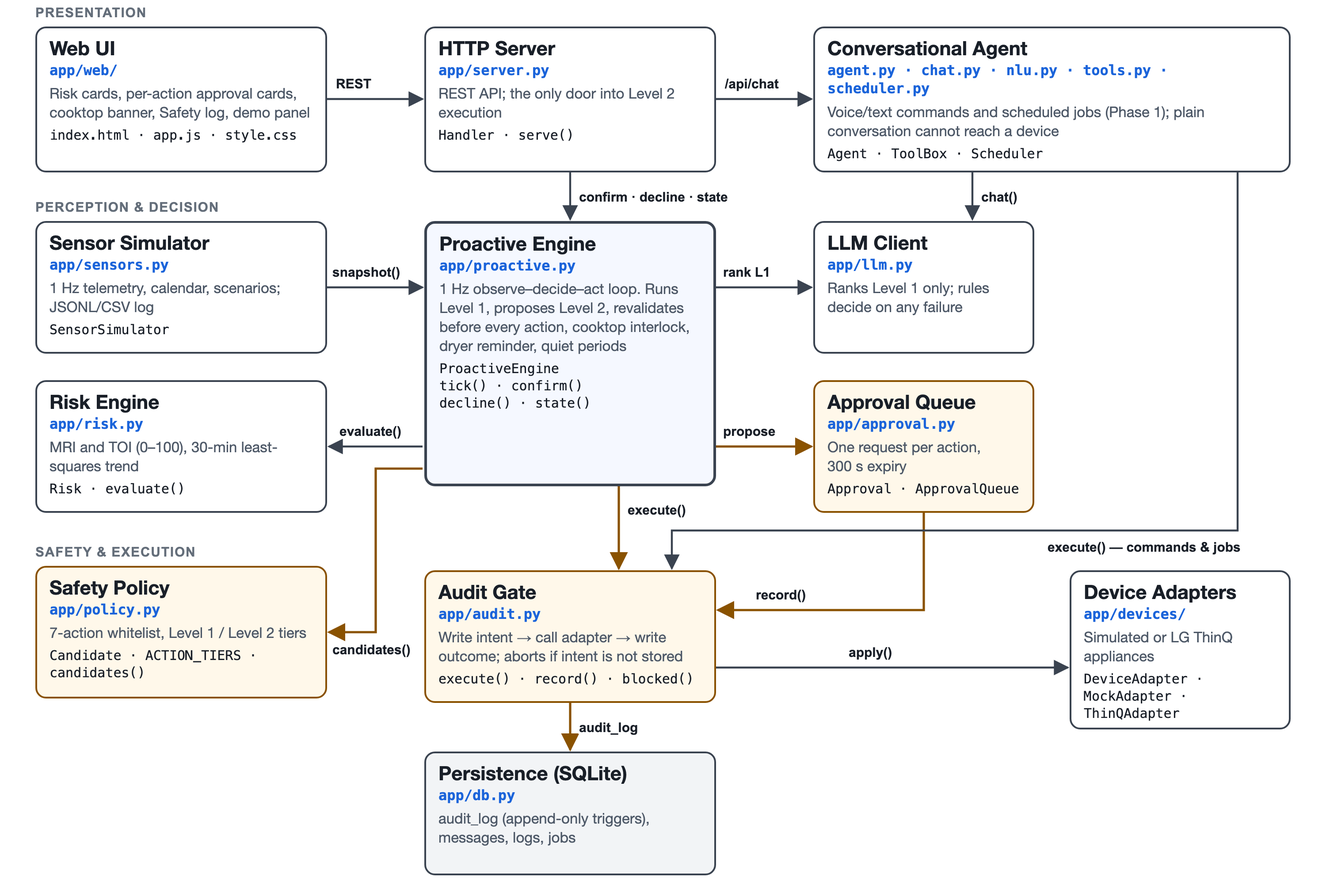
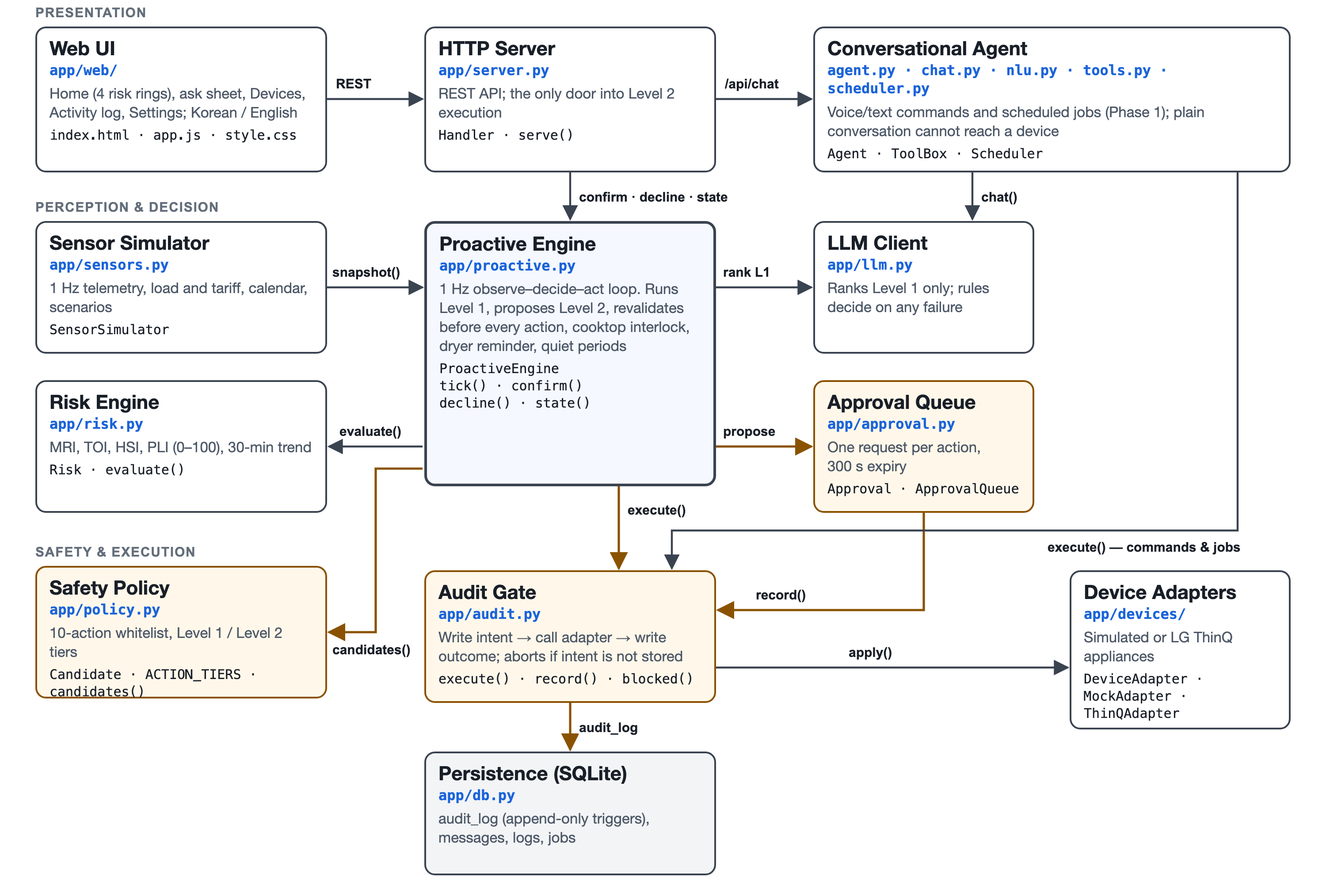
docs: paper updated to v3 UI and the four risk indices
- Intro, FR-2, FR-3: MRI, TOI, HSI (Steadman apparent temperature) and
  PLI (load vs time-of-use budget); whitelist 7 -> 10 actions; formulas
  and the three new actions in the table; Steadman (1984) reference
- Section V: sensor load/tariff/history, risk functions, ten-action
  policy, 293 tests, v3 four-tab interface with Korean / English
- Architecture figure re-rendered with the new component descriptions
- Section VI rewritten for the v3 UI with fresh screenshots from the
  running app: Use Cases 1-10, including hot night (HSI), peak rate
  (PLI) and the Korean interface; old v2 screenshots removed
- VII (not required) and a VIII Discussion draft for the team to finish
- Subtitle now covers deliverables B-D

diff --git a/docs/figures/src/architecture.html b/docs/figures/src/architecture.html
@@ -31,7 +31,7 @@
 
 <div id="ui" class="box" style="left:40px;top:30px;width:330px;height:165px">
   <h3>Web UI</h3><div class="f">app/web/</div>
-  <p>Risk cards, per-action approval cards, cooktop banner, Safety log, demo panel</p>
+  <p>Home (4 risk rings), ask sheet, Devices, Activity log, Settings; Korean / English</p>
   <div class="c">index.html · app.js · style.css</div>
 </div>
 <div id="srv" class="box" style="left:480px;top:30px;width:330px;height:165px">
@@ -47,17 +47,17 @@
 
 <div id="sens" class="box" style="left:40px;top:250px;width:330px;height:150px">
   <h3>Sensor Simulator</h3><div class="f">app/sensors.py</div>
-  <p>1 Hz telemetry, calendar, scenarios; JSONL/CSV log</p>
+  <p>1 Hz telemetry, load and tariff, calendar, scenarios</p>
   <div class="c">SensorSimulator</div>
 </div>
 <div id="risk" class="box" style="left:40px;top:430px;width:330px;height:150px">
   <h3>Risk Engine</h3><div class="f">app/risk.py</div>
-  <p>MRI and TOI (0–100), 30-min least-squares trend</p>
+  <p>MRI, TOI, HSI, PLI (0–100), 30-min trend</p>
   <div class="c">Risk · evaluate()</div>
 </div>
 <div id="pol" class="box safety" style="left:40px;top:640px;width:330px;height:150px">
   <h3>Safety Policy</h3><div class="f">app/policy.py</div>
-  <p>7-action whitelist, Level 1 / Level 2 tiers</p>
+  <p>10-action whitelist, Level 1 / Level 2 tiers</p>
   <div class="c">Candidate · ACTION_TIERS · candidates()</div>
 </div>
 

diff --git a/docs/project_specifications_final.tex b/docs/project_specifications_final.tex
@@ -12,7 +12,7 @@
 \begin{document}
 
 \title{Proactive Comfort Agent: Full Self-Driving Home Orchestration\\
-\large Technical Specification Document (Phase 2 -- Deliverable B)}
+\large Specification, Design and Implementation (Phase 2 -- Deliverables B--D)}
 
 \author{
 \IEEEauthorblockN{Ha Yun Kim}
@@ -59,15 +59,15 @@ Smart home appliances are ubiquitous today, but having more features does not au
 Current smart home apps like LG ThinQ work in reactive silos \cite{lgspec2026}. They wait for manual button taps or send passive alerts (such as ``Cycle Finished''), leaving household members to diagnose environmental or energy issues themselves \cite{pradhan2020}. More importantly, appliances do not share thermodynamic or power-load awareness across rooms. When someone bakes in a hot oven while running a dryer, kitchen temperatures surge, forcing the refrigerator compressor and air conditioner to run at maximum duty cycles and draw peak electricity without coordinated pre-cooling, ventilation, or load interruption \cite{ashrae2023}. FSD-Home solves this by combining continuous sensor tracking with automated cross-appliance environmental and energy orchestration.
 
 \subsection{Related Software}
-Current commercial tools offer strong single-device features: LG AI DD\textsuperscript{TM} senses fabric softness via motor torque; LG ezDispense\textsuperscript{TM} automates detergent dosing; and LG ThinQ ON / ThinQ Claw provides conversational voice hubs \cite{lgwhitepaper2024, lgspec2026}. Samsung's Bespoke AI sends lifestyle pattern notifications \cite{samsung2026a, samsung2026b}. However, none of them coordinate thermal load, moisture prevention, and electricity demand across multiple devices \cite{yuan2024}. FSD-Home introduces three main contributions: (1) explicit predictive risk scores for indoor mold hygiene (MRI) and kitchen thermal/power overload (TOI), (2) a Tesla-inspired Level 1 / Level 2 autonomy model with per-action confirmation, energy-saving pre-cooling/load interruption, and safe standby fallback, and (3) an inclusive, touch-first overlay designed around WCAG 2.2 contrast and touch targets \cite{wcag2023}.
+Current commercial tools offer strong single-device features: LG AI DD\textsuperscript{TM} senses fabric softness via motor torque; LG ezDispense\textsuperscript{TM} automates detergent dosing; and LG ThinQ ON / ThinQ Claw provides conversational voice hubs \cite{lgwhitepaper2024, lgspec2026}. Samsung's Bespoke AI sends lifestyle pattern notifications \cite{samsung2026a, samsung2026b}. However, none of them coordinate thermal load, moisture prevention, and electricity demand across multiple devices \cite{yuan2024}. FSD-Home introduces three main contributions: (1) four explicit, explainable risk scores --- indoor mold hygiene (MRI), kitchen thermal overload (TOI), heat stress where residents live (HSI) and whole-house power load against the time-of-use price (PLI) --- (2) a Tesla-inspired Level 1 / Level 2 autonomy model with per-action confirmation, energy-saving pre-cooling/load interruption, and safe standby fallback, and (3) an inclusive, touch-first overlay designed around WCAG 2.2 contrast and touch targets \cite{wcag2023}.
 
 \section{Requirements Overview}
 
 \subsection{Functional Requirements (FR)}
 \begin{itemize}
     \item \textbf{FR-1 (Real-Time Environmental \& Power Telemetry Perception):} Continuously sample indoor temperature, humidity, drum moisture decay, door contact, household presence (\texttt{user\_home}), compressor duty cycle, and wattage at 1~Hz.
-    \item \textbf{FR-2 (Predictive Environmental Hazard \& Energy Modeling):} Deterministically compute the Mold Risk Index (MRI) and Thermal Overload Index (TOI) to trigger interventions at a threshold of $50.0$.
-    \item \textbf{FR-3 (Level 1 \& Level 2 Action Framework):} Enforce a strict 7-action whitelist separating automatic eco/comfort adjustments (Level 1) from per-action approval-gated interventions (Level 2).
+    \item \textbf{FR-2 (Predictive Environmental Hazard \& Energy Modeling):} Deterministically compute the Mold Risk Index (MRI), Thermal Overload Index (TOI), Heat Stress Index (HSI) and Power Load Index (PLI) to trigger interventions at a threshold of $50.0$.
+    \item \textbf{FR-3 (Level 1 \& Level 2 Action Framework):} Enforce a strict 10-action whitelist separating automatic eco/comfort adjustments (Level 1) from per-action approval-gated interventions (Level 2).
     \item \textbf{FR-4 (Inclusive UI/UX \& Per-Action Consent Overlay):} Provide WCAG 2.2 compliant touch controls, separate approval prompts per Level 2 action, supplementary TTS voice prompts, manual quiet-period status review, and truthful adapter-grounded result messages.
     \item \textbf{FR-5 (Fail-Safe Default \& Pre-Execution Safety Policy):} Enforce a 300-second approval expiration defaulting to safe standby, pre-execution state/risk revalidation, cooktop presence and auto-off safeguards, and dryer restart reminders.
     \item \textbf{FR-6 (Structured Append-Only Audit Trail):} Maintain an immutable SQLite \texttt{audit\_log} linking risk triggers, per-action approvals (\texttt{approval\_id}), and actual device execution outcomes.
@@ -95,9 +95,9 @@ The FSD-Home backend system is developed using \textbf{Python 3.10+} (targeting 
 \subsection{Software and Algorithms in Use}
 The system decouples real-time physical risk perception from LLM decision reasoning:
 \begin{itemize}
-    \item \textbf{Deterministic Risk Engines (\texttt{app/risk.py}):} Evaluates Mold Risk Index (MRI) and Thermal Overload Index (TOI) using closed-form thermodynamic models and 30-minute least-squares linear trend forecasting.
+    \item \textbf{Deterministic Risk Engines (\texttt{app/risk.py}):} Evaluates the MRI, TOI, HSI and PLI using closed-form models (including Steadman's apparent temperature for HSI) and 30-minute least-squares linear trend forecasting.
     \item \textbf{OpenAI-Compatible LLM Inference:} Integrates with Zhipu AI \texttt{glm-4-flash} (or local vLLM endpoints) for intent resolution and action candidate selection.
-    \item \textbf{Deterministic Safety Gating (\texttt{app/policy.py}):} Restricts LLM output via a strict 7-action candidate whitelist divided into Level 1 (Autonomous) and Level 2 (Approval Required) tiers. Unknown or malformed action names are rejected and logged rather than executed.
+    \item \textbf{Deterministic Safety Gating (\texttt{app/policy.py}):} Restricts LLM output via a strict 10-action candidate whitelist divided into Level 1 (Autonomous) and Level 2 (Approval Required) tiers. Unknown or malformed action names are rejected and logged rather than executed.
 \end{itemize}
 
 \subsection{Cost Estimation}
@@ -148,7 +148,7 @@ Fig.~\ref{fig:arch} illustrates the decoupled FSD-Home pipeline, separating 1~Hz
 Temp | Humidity | Door | Power (W) | Fridge Duty | user\_home\\
 \hspace*{3em}$\downarrow$ (1.2 ms deterministic check)\\
 {[Deterministic Risk \& Energy Engine: app/risk.py]}\\
-MRI >= 50.0 (Mold Risk) \quad | \quad TOI >= 50.0 (Thermal/Load)\\
+MRI | TOI | HSI | PLI \quad (each acts at >= 50.0)\\
 \hspace*{3em}$\downarrow$\\
 {[Safety Whitelist \& Policy Gate: app/policy.py]}\\
 Reject Unknown Actions | Assign Level 1 vs. Level 2\\
@@ -171,7 +171,7 @@ The \texttt{SensorSimulator} class in \texttt{app/sensors.py} generates 1~Hz tim
 \end{itemize}
 
 \subsection{FR-2: Predictive Risk \& Energy Modeling}
-The risk assessment module (\texttt{app/risk.py}) computes MRI and TOI deterministically within $1.2\text{ ms}$ per tick to protect indoor air quality and prevent wasteful peak-load energy spikes:
+The risk assessment module (\texttt{app/risk.py}) computes four indices deterministically within $1.2\text{ ms}$ per tick to protect indoor air quality and prevent wasteful peak-load energy spikes:
 \begin{equation}
 \text{MRI} = \text{clamp}\left[(H - 70.0) \times 3.2 + (S \times 6.0) + \max(0, T - 24.0) \times 1.5\right]
 \end{equation}
@@ -181,14 +181,16 @@ The risk assessment module (\texttt{app/risk.py}) computes MRI and TOI determini
 \begin{itemize}
     \item \textbf{Environmental \& Hygiene Optimization (MRI):} Prevents mold proliferation in sealed appliances early using low-wattage ventilation or dehumidification, avoiding harsh chemical cleaners and energy-heavy hot-water tub-clean cycles \cite{epa2022, who2009}.
     \item \textbf{Thermodynamic \& Energy Load Balancing (TOI):} Tracks concurrent heat wattage ($W$), kitchen temperature ($T_k$), and refrigerator compressor duty cycle ($D > 0.6$, signaling excess thermal strain) alongside scheduled cooking events ($C = 1$ when a cooking session starts within 30 minutes, otherwise $0$) \cite{ashrae2023}.
+    \item \textbf{Heat Stress Where Residents Live (HSI):} Older adults lose heat less efficiently and feel thirst later. HSI uses Steadman's apparent temperature $AT = T + 0.33e - 4.0$, where $e$ is the water-vapour pressure from temperature and relative humidity \cite{steadman1984}, in the living room or bedroom, and only while someone is at home: $\text{HSI} = \text{clamp}[6.0\,(AT - 29.0)]$, which reaches the threshold near $AT = 37\,^\circ$C.
+    \item \textbf{Power Load Against the Tariff (PLI):} The simulator sums the draw of every running appliance; an air conditioner draws less at a warmer setpoint (900~W at 22~$^\circ$C, 100~W less per degree, floor 400~W). With a time-of-use budget $B$ of 2.5~kW in the peak band and 7~kW otherwise, $\text{PLI} = \text{clamp}[60\,L/B]$, so the house acts above about 2.1~kW at peak and 5.8~kW off-peak.
     \item \textbf{Trigger \& Tier Separation:} When either index reaches or exceeds its configured threshold ($50.0$), an intervention event is dispatched. The risk threshold determines \emph{whether} an intervention is considered, whereas the predefined action tier determines \emph{whether} the action runs automatically or requires user approval.
 \end{itemize}
 
 \subsection{FR-3: Level 1 \& Level 2 Action Framework}
-The local rule engine (\texttt{app/policy.py}) strictly enforces a 7-action whitelist (Table~\ref{tab:whitelist}). Unknown actions are blocked and recorded in \texttt{audit\_log}.
+The local rule engine (\texttt{app/policy.py}) strictly enforces a 10-action whitelist (Table~\ref{tab:whitelist}). Unknown actions are blocked and recorded in \texttt{audit\_log}.
 \begin{itemize}
     \item \textbf{Level 1 (Autonomous Eco \& Comfort Actions):} Low-power, reversible actions execute immediately when selected---including proactive kitchen pre-cooling (\texttt{precool\_kitchen} prior to scheduled cooking so the AC compressor runs smoothly at high efficiency rather than surging against peak oven heat) and targeted ventilation/dehumidification.
-    \item \textbf{Level 2 (Per-Action Confirmation Required):} High-load or schedule-interrupting operations---such as stopping the dryer (\texttt{stop\_dryer}) during thermal/power overload so high-wattage heating elements do not overlap with kitchen cooking---generate individual pending confirmation states in \texttt{app/approval.py}. In the current proactive flow, Level 2 interventions are triggered by thermal/power overload risk (TOI), whereas mold risk (MRI) produces Level 1 actions.
+    \item \textbf{Level 2 (Per-Action Confirmation Required):} High-load or schedule-interrupting operations---such as stopping the dryer (\texttt{stop\_dryer}) during thermal/power overload so high-wattage heating elements do not overlap with kitchen cooking---generate individual pending confirmation states in \texttt{app/approval.py}. In the current proactive flow, Level 2 interventions are triggered by kitchen overload (TOI) and by power load at the peak rate (PLI, pausing a running wash); mold (MRI) and heat stress (HSI) produce Level 1 actions only.
 \end{itemize}
 
 \begin{table}[htbp]
@@ -206,6 +208,9 @@ L1 & \texttt{ventilate\_kitchen} & Range hood, fan high \\
 L1 & \texttt{precool\_kitchen} & Kitchen AC to $24^\circ\text{C}$ \\
 L2 & \texttt{stop\_dryer} & Dryer off; restart by hand \\
 L2 & \texttt{preheat\_cooktop} & Cooktop on early \\
+L1 & \texttt{cool\_room} & Room AC cool, 26~$^\circ$C (HSI) \\
+L1 & \texttt{eco\_ac} & Coldest AC +2~$^\circ$C (PLI) \\
+L2 & \texttt{pause\_washer} & Pause wash at peak (PLI) \\
 \bottomrule
 \end{tabular}
 \end{center}
@@ -302,7 +307,7 @@ Table~\ref{tab:dirs} lists the source tree. The core runtime uses only the Pytho
 \midrule
 \texttt{/} & \texttt{run.py}, \texttt{start.bat} & Entry point & Starts adapter, proactive engine, scheduler and web server; \texttt{--scenario}, \texttt{--port}, \texttt{--lan} \\
 \texttt{app/} & \texttt{sensors.py} & Sensor Simulator & \texttt{SensorSimulator}: 1~Hz rooms, appliances, calendar, scenarios \\
-\texttt{app/} & \texttt{risk.py} & Risk Engine & \texttt{Risk}, \texttt{mold\_risk()}, \texttt{thermal\_risk()}, \texttt{evaluate()} \\
+\texttt{app/} & \texttt{risk.py} & Risk Engine & \texttt{Risk}, MRI/TOI/HSI/PLI functions, \texttt{apparent\_temp()}, \texttt{evaluate()} \\
 \texttt{app/} & \texttt{policy.py} & Safety Policy & \texttt{Candidate}, \texttt{ACTION\_TIERS}, \texttt{candidates()}, \texttt{tier\_of()} \\
 \texttt{app/} & \texttt{proactive.py} & Proactive Engine & \texttt{ProactiveEngine}: loop, revalidation, cooktop interlock, dryer reminder \\
 \texttt{app/} & \texttt{approval.py} & Approval Queue & \texttt{Approval}, \texttt{ApprovalQueue}: per-action requests, 300~s expiry \\
@@ -312,8 +317,8 @@ Table~\ref{tab:dirs} lists the source tree. The core runtime uses only the Pytho
 \texttt{app/} & \texttt{agent.py}, \texttt{chat.py}, \texttt{nlu.py}, \texttt{tools.py}, \texttt{scheduler.py}, \texttt{agent\_loop.py}, \texttt{scenes.py}, \texttt{food.py} & Conversational Agent & Phase~1 voice/text commands, schedules and conversation; device writes go through the Audit Gate \\
 \texttt{app/} & \texttt{config.py}, \texttt{build.py} & Configuration & Defaults, \texttt{config.json}, build stamp \\
 \texttt{app/devices/} & \texttt{base.py}, \texttt{mock.py}, \texttt{thinq.py} & Device Adapters & \texttt{DeviceAdapter}, \texttt{MockAdapter} (11 simulated appliances), \texttt{ThinQAdapter} (dry-run by default) \\
-\texttt{app/web/} & \texttt{index.html}, \texttt{app.js}, \texttt{style.css}, \texttt{sw.js} & Web UI & Dashboard, approval cards, Safety log, demo controls; no build step \\
-\texttt{tests/} & \texttt{test\_phase2.py}, \texttt{test\_fr456.py}, \ldots & Unit tests & 276 tests; run on Windows and Linux in GitHub Actions \\
+\texttt{app/web/} & \texttt{index.html}, \texttt{app.js}, \texttt{style.css}, \texttt{sw.js} & Web UI & Four phone-screen tabs, ask sheet, talk sheet; Korean / English; no build step \\
+\texttt{tests/} & \texttt{test\_phase2.py}, \texttt{test\_fr456.py}, \ldots & Unit tests & 293 tests (incl.\ \texttt{test\_heat\_energy.py}); run on Windows and Linux in GitHub Actions \\
 \texttt{eval/} & \texttt{run.py}, \texttt{latency.py}, \texttt{dataset.jsonl} & Benchmarks & Intent-parser regression and latency measurement \\
 \texttt{docs/} & \texttt{*.tex}, \texttt{figures/} & Documentation & This paper, figures and screenshots \\
 \bottomrule
@@ -323,16 +328,17 @@ Table~\ref{tab:dirs} lists the source tree. The core runtime uses only the Pytho
 \subsection{Sensor Simulator (\texttt{app/sensors.py})}
 \textbf{Purpose.} Provide the telemetry FR-1 asks for without physical appliances (NFR-2).
 \textbf{Functionality.} \texttt{SensorSimulator} advances a small physical model once per second: an oven or cooktop heats the kitchen, the range hood and the air conditioner pull it back, the dryer warms the balcony, a sealed washer drum gains humidity while drum ventilation removes it, and the refrigerator's compressor duty cycle follows its external temperature probe. \texttt{note\_action()} feeds every executed command back into the model so that interventions have visible effects. \texttt{apply\_scenario()} loads the deterministic starting states used in the use cases (\texttt{idle}, \texttt{mold}, \texttt{oven}, \texttt{oven\_running}), and \texttt{record()} appends every snapshot to \texttt{data/sensors/readings.jsonl} and rewrites \texttt{latest.csv}. The day's cooking sessions are read from a local JSON calendar.
+It also reports the whole-house load (\texttt{total\_load\_w}) and the time-of-use band (\texttt{tariff}), which a scenario sets so that a demonstration behaves the same at any hour, and keeps a per-signal history for the 30-minute trend. Scenarios \texttt{heatwave} and \texttt{peak} exercise HSI and PLI.
 \textbf{Origin.} Written for this project; standard library only.
 
 \subsection{Risk Engine (\texttt{app/risk.py})}
 \textbf{Purpose.} Turn a snapshot into the two explainable indices of FR-2.
-\textbf{Functionality.} \texttt{mold\_risk()} and \texttt{thermal\_risk()} implement Eqs.~(1) and (2) and return a \texttt{Risk} object with the score, the headline metric, a 30-minute prediction from a least-squares slope (\texttt{slope\_per\_second()}), and a \texttt{drivers} dictionary that names every input that contributed points. A risk that does not apply (washer open, no heat source and no cooking scheduled) returns \texttt{None}. \texttt{evaluate()} returns all applicable risks, highest score first.
+\textbf{Functionality.} \texttt{mold\_risk()}, \texttt{thermal\_risk()}, \texttt{heat\_health\_risk()} and \texttt{energy\_risk()} implement the four indices of FR-2 and return a \texttt{Risk} object with the score, the headline metric, a 30-minute prediction from a least-squares slope (\texttt{slope\_per\_second()}), and a \texttt{drivers} dictionary that names every input that contributed points. A risk that does not apply (washer open, no heat source and no cooking scheduled) returns \texttt{None}. \texttt{evaluate()} returns all applicable risks, highest score first.
 \textbf{Why.} The indices are closed-form and untrained, so each point of a score can be explained to the user and checked in a unit test.
 
 \subsection{Safety Policy (\texttt{app/policy.py})}
 \textbf{Purpose.} Hold the single list of actions the house may take and the tier of each (FR-3).
-\textbf{Functionality.} \texttt{ACTION\_TIERS} is the seven-action whitelist of Table~\ref{tab:whitelist}. \texttt{candidates(risk, snapshot)} proposes only the actions that make sense in the current state (a range hood that is already on is not proposed), and \texttt{tier\_of()} returns Level~2 for any unknown name, so a mistake can only make an action more restricted. A unit test checks that the whitelist and the set of actions \texttt{candidates()} can produce are identical.
+\textbf{Functionality.} \texttt{ACTION\_TIERS} is the ten-action whitelist of Table~\ref{tab:whitelist}. \texttt{candidates(risk, snapshot)} proposes only the actions that make sense in the current state (a range hood that is already on is not proposed), and \texttt{tier\_of()} returns Level~2 for any unknown name, so a mistake can only make an action more restricted. A unit test checks that the whitelist and the set of actions \texttt{candidates()} can produce are identical.
 
 \subsection{Proactive Engine (\texttt{app/proactive.py})}
 \textbf{Purpose.} Run Algorithm~\ref{alg:control}.
@@ -353,7 +359,7 @@ Table~\ref{tab:dirs} lists the source tree. The core runtime uses only the Pytho
 
 \subsection{HTTP Server and Web UI (\texttt{app/server.py}, \texttt{app/web/})}
 \textbf{Purpose.} Give the household one accessible screen (FR-4).
-\textbf{Functionality.} \texttt{Handler} serves the static interface and a small REST API: \texttt{GET /api/proactive}, \texttt{/api/approvals}, \texttt{/api/audit}, \texttt{/api/snapshot}; \texttt{POST /api/approvals/<id>/confirm} and \texttt{/decline} (the only route into Level~2 execution), \texttt{/api/control}, \texttt{/api/chat} and \texttt{/api/scenario} for demonstrations. The interface is vanilla HTML, CSS and JavaScript with no build step. The home screen shows, from top to bottom, the status line, one card per pending approval with its own countdown, the two risk cards with the threshold marked at 50, the cooktop interlock banner, the heat-producing load, rooms, devices and the Safety log. Text and signal colours meet WCAG~2.2 AA contrast ($\geq 4.5{:}1$), controls show a visible keyboard focus, touch targets are at least 52~px, and the status line, banner and notifications are ARIA live regions \cite{wcag2023}.
+\textbf{Functionality.} \texttt{Handler} serves the static interface and a small REST API: \texttt{GET /api/proactive}, \texttt{/api/approvals}, \texttt{/api/audit}, \texttt{/api/snapshot}; \texttt{POST /api/approvals/<id>/confirm} and \texttt{/decline} (the only route into Level~2 execution), \texttt{/api/control}, \texttt{/api/chat} and \texttt{/api/scenario} for demonstrations. The interface is vanilla HTML, CSS and JavaScript with no build step, designed first in Figma (Section~VI shows it). It has four tabs that each fit one phone screen: \emph{Home} (a one-sentence status from a small house mascot, four risk rings with the threshold at 50, quick actions), \emph{Devices}, \emph{Activity} (the audit trail in plain language) and \emph{Settings}; talking is the button in the middle of the tab bar. Level~2 questions open a bottom sheet by themselves: the reason once, then one card per action with its own Yes~/~No and a shared countdown. A \emph{Korean | English} toggle switches the whole interface, speech recognition and read-aloud; Korean is the default. Text and signal colours meet WCAG~2.2 AA contrast ($\geq 4.5{:}1$), controls show a visible keyboard focus, touch targets are 44--56~px, and the status line, banner and notifications are ARIA live regions \cite{wcag2023}.
 
 \subsection{Conversational Agent (\texttt{app/agent.py} and related)}
 \textbf{Purpose.} Keep the Phase~1 voice and text assistant working on the same safety path.
@@ -361,102 +367,154 @@ Table~\ref{tab:dirs} lists the source tree. The core runtime uses only the Pytho
 
 % ======================================================================
 \section{Use Cases}
-All use cases below run on a laptop with \texttt{python run.py}; the screenshots were taken at phone width (500~px) with the language model disabled, so every decision shown was made by the rules. Each scenario can be loaded from the \emph{Demo controls} panel at the bottom of the home screen.
+All use cases run on a laptop with \texttt{python run.py}. Screenshots were taken from the running app at phone size with the language model disabled, so every decision shown was made by the rules. Each scenario can be loaded from \emph{Settings} $\rightarrow$ \emph{Demo}, or with \texttt{python run.py --scenario <name>}. The interface opens in Korean; the screenshots use the English setting except Use Case~9.
 
 \subsection{Use Case 1: Mold Risk Handled Automatically}
-\textbf{Satisfies:} FR-1, FR-2, FR-3 (Level~1), FR-4.
+\textbf{Satisfies:} FR-1, FR-2 (MRI), FR-3 (Level~1), FR-4.
 \begin{enumerate}
-    \item Open the home screen and choose \emph{Demo controls} $\rightarrow$ \emph{Wet washer}. The simulator loads a washer that finished two hours ago with the door shut and nobody at home.
-    \item Within one tick the Mold Risk Index reaches 82 (drum 90\% humid, sealed 2.0~h), above the threshold of 50.
-    \item The engine runs the Level~1 actions on its own: drum ventilation, the balcony dehumidifier and the living-room purifier. No question is asked.
-    \item The status line reads ``The house is handling washer mold risk'', the mold card shows \emph{Acting}, and the Safety log lists each action as \emph{About to act} followed by \emph{Done} (Fig.~\ref{fig:uc1}).
+    \item Choose \emph{Demo} $\rightarrow$ \emph{Wet washer}: a wash finished two hours ago with the door shut and nobody at home.
+    \item Within one tick MRI reaches about 81 (drum 90\% humid, sealed 2~h).
+    \item The house runs the Level~1 actions on its own --- drum ventilation, dehumidifier, air purifier --- and asks nothing.
+    \item Home says ``Airing the washer for you''; the washer ring shows \emph{On it}, and \emph{Just now} lists what was switched on (Fig.~\ref{fig:uc1}). The heat-stress tile reads ``Nobody home'' because HSI only counts while someone is at home.
 \end{enumerate}
 
 \begin{figure}[htbp]
 \centering
-\includegraphics[width=0.72\columnwidth]{figures/uc1-mold.png}
-\caption{Use Case 1: the mold index at 82 triggers Level~1 actions without asking.}
+\includegraphics[width=0.58\columnwidth]{figures/v3-uc1-mold.png}
+\caption{Use Case 1: MRI above 50 triggers Level~1 actions without asking.}
 \label{fig:uc1}
 \end{figure}
 
 \subsection{Use Case 2: Per-Action Approval for Kitchen Overload}
-\textbf{Satisfies:} FR-2, FR-3 (Level~2), FR-4.
+\textbf{Satisfies:} FR-2 (TOI), FR-3 (Level~2), FR-4.
 \begin{enumerate}
-    \item Choose \emph{Demo controls} $\rightarrow$ \emph{Dryer + dinner soon}. The dryer is running, the kitchen is at 31.5~$^\circ$C, the refrigerator compressor runs at 80\%, and a cooking session starts in 20 minutes.
-    \item The Thermal Overload Index reaches 100. The engine turns on the range hood and pre-cools the kitchen (Level~1) without asking.
-    \item Two Level~2 actions remain. The screen shows \emph{two separate cards}, ``Balcony Dryer $\cdot$ Stop the dryer'' and ``Kitchen Cooktop $\cdot$ Preheat the cooktop'', each with its own request identifier, Yes/No buttons and a five-minute countdown (Fig.~\ref{fig:uc2}). The first question is also read aloud.
+    \item Choose \emph{Demo} $\rightarrow$ \emph{Dryer + dinner soon}: the dryer runs, the kitchen is at 31.5~$^\circ$C, the refrigerator compressor runs at 80\%, and dinner starts in 20 minutes.
+    \item TOI reaches 100. The range hood and kitchen pre-cooling run on their own (Level~1).
+    \item A bottom sheet opens by itself (Fig.~\ref{fig:uc2}). It states the reason once as tags, then shows \emph{one card per Level~2 action} --- ``Stop the dryer now?'' and ``Preheat the cooktop?'' --- each with its own Yes~/~No, a shared countdown and ``No answer? Nothing changes.'' The questions are read aloud once, together.
 \end{enumerate}
 
 \begin{figure}[htbp]
 \centering
-\includegraphics[width=0.72\columnwidth]{figures/uc2-approvals.png}
-\caption{Use Case 2: one approval card per Level~2 action, each with its own countdown.}
+\includegraphics[width=0.58\columnwidth]{figures/v3-uc2-ask.png}
+\caption{Use Case 2: the reason once, then one short question per Level~2 action.}
 \label{fig:uc2}
 \end{figure}
 
 \subsection{Use Case 3: Confirming, Revalidation and the Cooktop Interlock}
 \textbf{Satisfies:} FR-4, FR-5, FR-6.
 \begin{enumerate}
-    \item In the state of Use Case~2, press \emph{Yes} on the dryer card. The engine revalidates the request (still valid, overload still active, dryer still on), records the intent, stops the dryer and records the outcome. The message reads ``You said yes, so I turned the dryer off''.
-    \item Removing the dryer's 1.8~kW clears the overload; the house sends one reminder that the dryer can be restarted by hand. It never restarts the dryer itself.
-    \item Press \emph{Yes} on the cooktop card. Because the overload has cleared, the cooktop is revalidated against the meal instead: someone is at home, cooking is still scheduled, and the cooktop is still off. The cooktop switches on.
-    \item A red banner shows that the cooktop is being watched: it is waiting for cooking to start, will switch off if no cooking begins within 5 minutes of the scheduled start, and will switch off after 30 minutes at most (Fig.~\ref{fig:uc3}). The cooktop's own load raises the thermal index again, which the risk card reports truthfully.
+    \item Press \emph{Yes} on the dryer card. The engine revalidates (still valid, overload still active, dryer still on), records the intent, stops the dryer and records the outcome.
+    \item Removing the dryer's 1.8~kW clears the overload; the house sends one reminder that the dryer can be restarted by hand and never restarts it itself.
+    \item Press \emph{Yes} on the cooktop card. It is revalidated against the meal --- someone at home, cooking still scheduled, cooktop still off --- and switches on.
+    \item Home now says ``Watching the cooktop'': it turns off by itself if no cooking starts after the scheduled time, and after 30 minutes at most (Fig.~\ref{fig:uc3}). The cooktop's own load raises TOI again, which the kitchen ring reports truthfully.
 \end{enumerate}
 
 \begin{figure}[htbp]
 \centering
-\includegraphics[width=0.72\columnwidth]{figures/uc3-guard.png}
-\caption{Use Case 3: after both confirmations the cooktop is on and watched by the interlock.}
+\includegraphics[width=0.58\columnwidth]{figures/v3-uc3-watch.png}
+\caption{Use Case 3: after both answers the cooktop is on and watched by the interlock.}
 \label{fig:uc3}
 \end{figure}
 
 \subsection{Use Case 4: Declining or Not Answering}
 \textbf{Satisfies:} FR-4, FR-5 (fail-safe default).
 \begin{enumerate}
-    \item Load \emph{Dryer + dinner soon} again and press \emph{No} on both cards --- or leave them unanswered for five minutes.
-    \item Neither the dryer nor the cooktop changes. The Level~1 actions that already ran stay in effect, and the message names only the appliances that were left alone.
-    \item The kitchen card now reads ``Won't ask about this again for 30 min'': the quiet period is visible, and the live score stays on screen during it (Fig.~\ref{fig:uc4}).
-    \item An answer that arrives after the deadline is treated exactly like no answer.
+    \item Load \emph{Dryer + dinner soon} again and press \emph{No} on both cards, or leave them for five minutes.
+    \item Neither the dryer nor the cooktop changes; the Level~1 actions that already ran stay in effect.
+    \item The kitchen ring shows ``Quiet for 30 min'': the house will not ask again about this risk for 30 minutes, and the live score stays visible meanwhile (Fig.~\ref{fig:uc4}). A late answer is treated exactly like no answer.
 \end{enumerate}
 
 \begin{figure}[htbp]
 \centering
-\includegraphics[width=0.72\columnwidth]{figures/uc4-quiet.png}
-\caption{Use Case 4: after a decline nothing changes and the 30-minute quiet period is shown.}
+\includegraphics[width=0.58\columnwidth]{figures/v3-uc4-quiet.png}
+\caption{Use Case 4: after a decline nothing changes and the quiet period is shown.}
 \label{fig:uc4}
 \end{figure}
 
 \subsection{Use Case 5: A Stale ``Yes'' Is Refused}
 \textbf{Satisfies:} FR-5 (pre-execution revalidation).
 \begin{enumerate}
-    \item A cooktop request is pending (Use Case~2).
-    \item Before the user answers, the situation changes: the resident leaves home, the cooking session is removed from the calendar, or someone switches the cooktop on by hand.
-    \item The user presses \emph{Yes}. Revalidation fails, the adapter is not called, an \texttt{action.blocked} row records the reason, and the user is told why, e.g.\ ``nobody is home to watch the cooktop''.
+    \item A cooktop question is pending (Use Case~2).
+    \item Before the user answers, the resident leaves, the meal is removed from the calendar, or someone switches the cooktop on by hand.
+    \item The user presses \emph{Yes}. Revalidation fails, the adapter is not called, an \texttt{action.blocked} row records the reason, and the user is told why (e.g.\ ``nobody is home to watch the cooktop'').
 \end{enumerate}
-These paths are exercised by the unit tests in \texttt{tests/test\_fr456.py} (for example \texttt{test\_preheat\_cooktop\_is\_refused\_when\_nobody\_is\_home} and \texttt{test\_a\_yes\_after\_the\_risk\_clears\_is\_refused\_with\_a\_reason}).
+These paths are exercised by unit tests in \texttt{tests/test\_fr456.py}.
 
-\subsection{Use Case 6: Tracing a Decision in the Safety Log}
+\subsection{Use Case 6: Tracing a Decision in Activity}
 \textbf{Satisfies:} FR-6.
 \begin{enumerate}
-    \item After Use Case~3, scroll to the \emph{Safety log} on the home screen, or call \texttt{GET /api/audit}.
-    \item Each row shows the time, a plain-language event and the underlying \texttt{event\_type}. Rows that belong to one request share its identifier, so the chain \emph{You said yes} $\rightarrow$ \emph{About to act} $\rightarrow$ \emph{Done} can be followed for each action (Fig.~\ref{fig:uc6}).
+    \item After Use Case~3, open the \emph{Activity} tab, or call \texttt{GET /api/audit}.
+    \item Each entry shows a plain-language line, who decided (``You said yes'', ``Did it on its own'', ``Safety rule''), the request identifier and the underlying \texttt{event\_type}, so the chain question $\rightarrow$ answer $\rightarrow$ device outcome can be followed for each action (Fig.~\ref{fig:uc6}).
     \item The log cannot be edited: an \texttt{UPDATE} or \texttt{DELETE} on \texttt{audit\_log} is aborted by the database triggers.
 \end{enumerate}
 
 \begin{figure}[htbp]
 \centering
-\includegraphics[width=0.72\columnwidth]{figures/uc6-audit.png}
-\caption{Use Case 6: the Safety log links each approval to the intent and the device outcome.}
+\includegraphics[width=0.58\columnwidth]{figures/v3-uc6-activity.png}
+\caption{Use Case 6: the Activity tab is the append-only audit trail in plain language.}
 \label{fig:uc6}
 \end{figure}
 
-\subsection{Use Case 7: Running Without the Language Model}
+\subsection{Use Case 7: Heat Stress on a Hot Night}
+\textbf{Satisfies:} FR-2 (HSI), FR-3 (Level~1).
+\begin{enumerate}
+    \item Choose \emph{Demo} $\rightarrow$ \emph{Hot night}: the bedroom is 31.5~$^\circ$C at 70\% humidity with the resident at home and the AC off.
+    \item The apparent temperature is about 38~$^\circ$C, so HSI exceeds 50.
+    \item The house turns the bedroom AC on to cool \emph{gently} to 26~$^\circ$C --- cool, not cold, for an older resident --- and says so on Home (Fig.~\ref{fig:uc7}). No question is needed: the action is protective and reversible.
+\end{enumerate}
+
+\begin{figure}[htbp]
+\centering
+\includegraphics[width=0.58\columnwidth]{figures/v3-uc7-heat.png}
+\caption{Use Case 7: a hot, humid bedroom is cooled gently without asking.}
+\label{fig:uc7}
+\end{figure}
+
+\subsection{Use Case 8: Power Load at the Peak Rate}
+\textbf{Satisfies:} FR-2 (PLI), FR-3 (Level~1 and Level~2), FR-4, FR-5.
+\begin{enumerate}
+    \item Choose \emph{Demo} $\rightarrow$ \emph{Peak rate}: evening peak band, two air conditioners set to 22~$^\circ$C and a wash running --- about 2.4~kW against a 2.5~kW peak budget.
+    \item PLI exceeds 50. The house raises the coldest AC by 2~$^\circ$C on its own (Level~1); the load falls but stays above the threshold.
+    \item The sheet asks one question: ``Pause the wash until the peak ends?'' (Fig.~\ref{fig:uc8}).
+    \item On \emph{Yes} the wash pauses (it does not count as finished, so the mold index does not start), the load drops to about 1.8~kW, PLI falls below 50 and Home returns to ``All cozy at home''.
+\end{enumerate}
+
+\begin{figure}[htbp]
+\centering
+\includegraphics[width=0.58\columnwidth]{figures/v3-uc8-peak.png}
+\caption{Use Case 8: at the peak rate, the house lowers the AC load itself and asks before pausing the wash.}
+\label{fig:uc8}
+\end{figure}
+
+\subsection{Use Case 9: Korean Interface}
+\textbf{Satisfies:} FR-4 (inclusive interface).
+\begin{enumerate}
+    \item Tap the language toggle at the top right of Home.
+    \item Every label, the status sentence, risk tags, the ask sheet, device names and states, Activity and Settings switch language; speech recognition and read-aloud follow (Fig.~\ref{fig:uc9}). The choice is remembered on the device.
+    \item Text generated by the server (chat replies, refusal reasons) remains in English in this version.
+\end{enumerate}
+
+\begin{figure}[htbp]
+\centering
+\includegraphics[width=0.58\columnwidth]{figures/v3-uc9-ko.png}
+\caption{Use Case 9: the same peak-rate question in the Korean interface.}
+\label{fig:uc9}
+\end{figure}
+
+\subsection{Use Case 10: Running Without the Language Model}
 \textbf{Satisfies:} NFR-1, NFR-2.
 \begin{enumerate}
     \item Start the system with the model pointed at an unreachable address: \texttt{LLM\_BASE\_URL=http://127.0.0.1:9 python run.py --scenario oven}.
-    \item The engine logs \texttt{proactive.decide\_fallback} and the rules choose the Level~1 actions. Approval cards, revalidation, the interlock and the audit trail behave exactly as in Use Cases~2--4.
-    \item \texttt{python -m unittest discover -s tests} (276 tests) and \texttt{python -m eval.run} verify the same behaviour without any network access.
+    \item The engine logs \texttt{proactive.decide\_fallback} and the rules choose the Level~1 actions. Questions, revalidation, the interlock and the audit trail behave exactly as above.
+    \item \texttt{python -m unittest discover -s tests} (293 tests) and \texttt{python -m eval.run} verify the same behaviour with no network access.
 \end{enumerate}
+
+\section{Software Installation Guide}
+Not required for this milestone. The repository README lists the commands: Python~3.10 or later, \texttt{python run.py}, then open \texttt{http://127.0.0.1:8848}.
+
+\section{Discussion}
+\emph{Draft --- to be completed by the team with its own experience.}
+The hardest part of this phase was not a single algorithm but keeping four people's work consistent while the specification, the code and the design changed at the same time. Twice, two members implemented the same requirement in parallel --- per-action approvals and the append-only audit trail were written once on a feature branch and once on the main branch --- and the result was a merge conflict that could not be resolved line by line. We resolved it by keeping one implementation and porting only what the other one did better, and learned to announce who owns a requirement before starting it. A second lesson came from running the system rather than only testing it: the specification required every confirmed action to be revalidated against an active risk, which looked correct on paper, yet in the demonstration it refused every cooktop preheat, because stopping the dryer had already cleared the kitchen overload. Preheating prepares a meal rather than relieving the overload, so we changed the specification to revalidate it against the meal instead. The interface went through three versions: a long scrolling dashboard, a ``cute'' version the team found too childish, and the current soft, phone-height design with a Korean default, each reviewed in Figma before it was coded. Designing in Figma first, with a clickable Korean and English prototype, made these discussions faster than arguing over code. Communication across Korean- and English-speaking members was itself a reason to build the language switch. Things to improve: server-generated messages are still English only; the risk indices are hand-tuned rather than calibrated on real appliance data; and the system has not yet been tested with older users or on real LG ThinQ devices, which is the most important next step.
 
 \begin{thebibliography}{00}
 \bibitem{lgwhitepaper2024} LG Electronics, ``Affectionate Intelligence and Zero Labor Home Vision,'' LG ThinQ Ecosystem Whitepaper, 2024.
@@ -473,6 +531,7 @@ These paths are exercised by the unit tests in \texttt{tests/test\_fr456.py} (fo
 \bibitem{who2009} World Health Organization (WHO), ``WHO Guidelines for Indoor Air Quality: Dampness and Mould,'' 2009.
 \bibitem{lgspec2026} LG Electronics, ``LG ThinQ Platform Specifications,'' Official Whitepaper, 2026.
 \bibitem{samsung2026b} Samsung India, ``2026 Range of Bespoke AI Appliances,'' Press Release, 2026.
+\bibitem{steadman1984} R. G. Steadman, ``A universal scale of apparent temperature,'' \emph{Journal of Climate and Applied Meteorology}, vol. 23, no. 12, pp. 1674--1687, 1984.
 \bibitem{wcag2023} W3C, ``Web Content Accessibility Guidelines (WCAG) 2.2,'' W3C Recommendation, 2023.
 \end{thebibliography}
 
